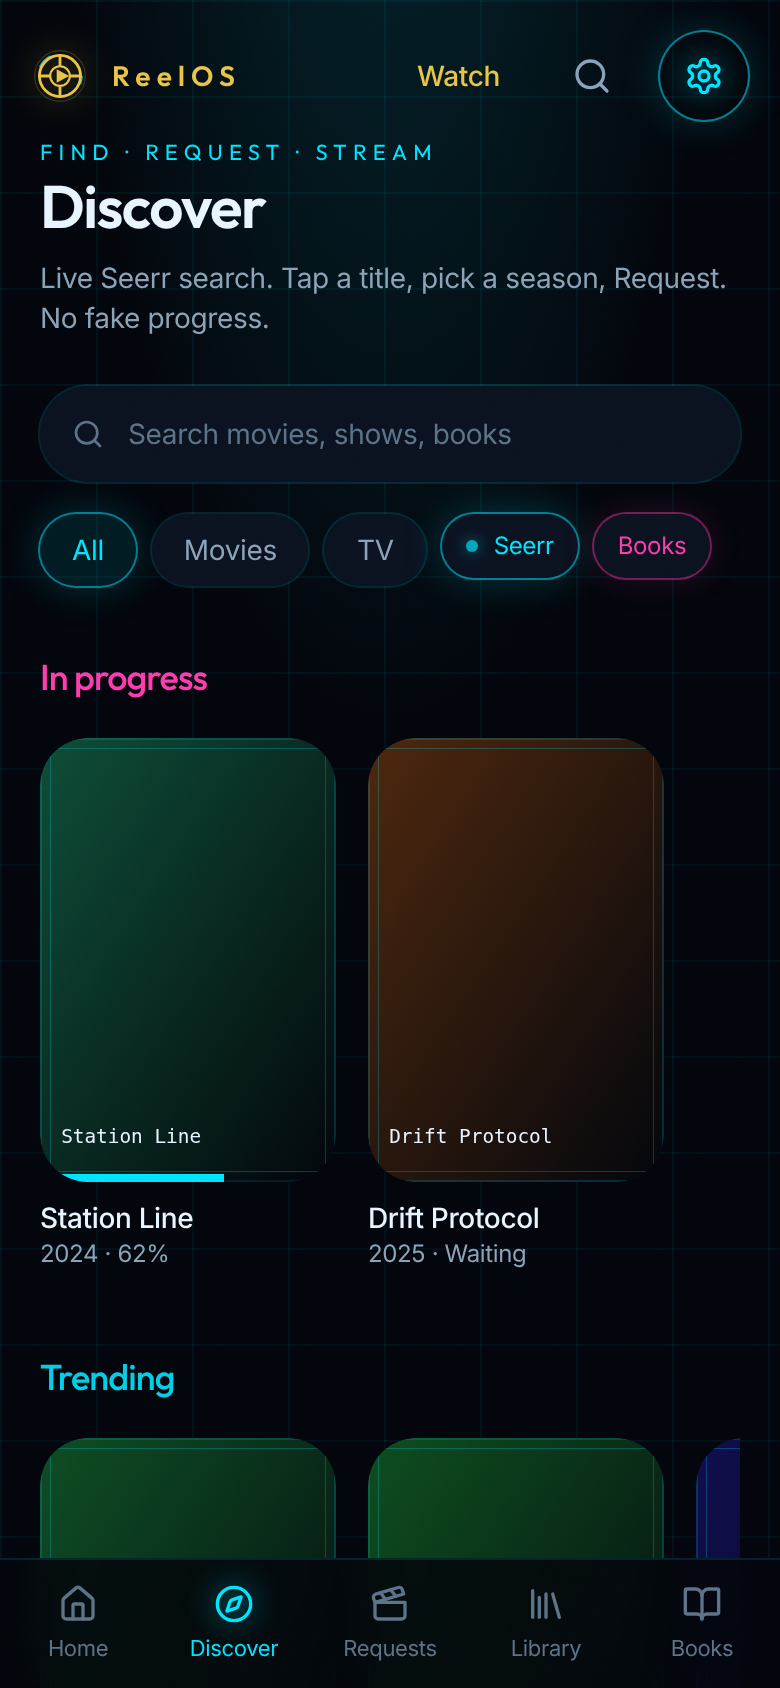
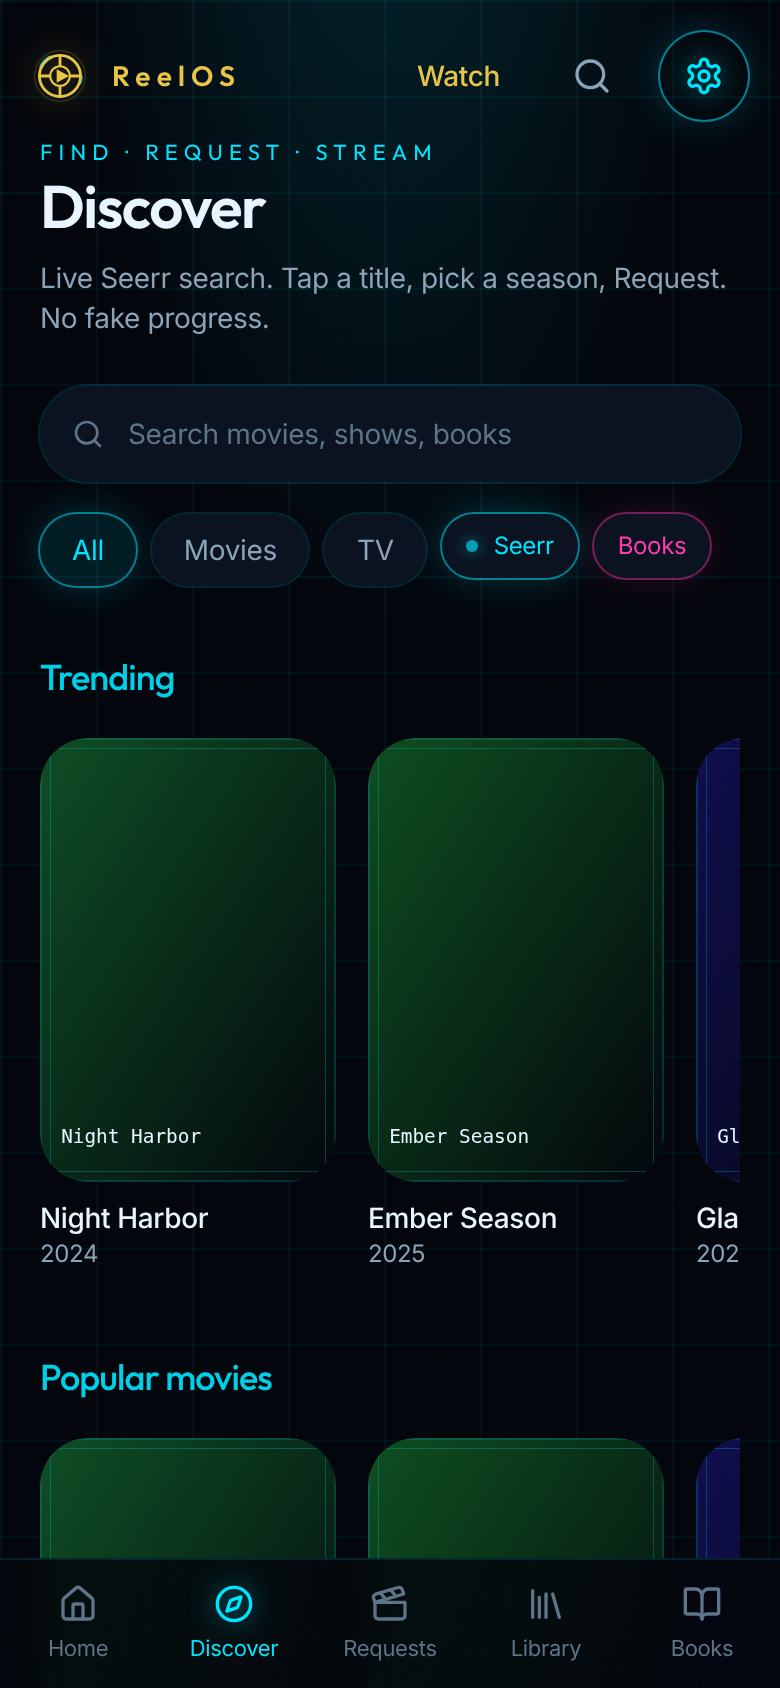
fix: keep Discover idle clean — In progress lives on Requests
Discover is trending/popular/search only. Active grabs/requests move to
the Requests tab (magenta In progress row). Home Continue / Your requests
unchanged. Hold merge.

diff --git a/src/components/discover-view.tsx b/src/components/discover-view.tsx
@@ -6,11 +6,8 @@ import { Chip, FilterChip } from "@/components/chip";
 import { Page, PageTitle } from "@/components/page";
 import { Row, TitleCard } from "@/components/title-card";
 import { rememberCatalogTitles } from "@/lib/catalog";
-import { getTitle } from "@/lib/catalog";
 import { installHonestRequest } from "@/lib/honest-request";
 import { useReelStore } from "@/lib/store";
-import { isInFlightRequest } from "@/lib/sync-requests";
-import { useSyncRequests } from "@/lib/use-sync-requests";
 import type { Title } from "@/lib/types";
 
 type KindFilter = "all" | "movie" | "tv";
@@ -41,9 +38,7 @@ export function DiscoverView() {
   const shelf = useReelStore((s) => s.shelf);
   const shelfError = useReelStore((s) => s.shelfError);
   const shelfReady = useReelStore((s) => s.shelfReady);
-  const requests = useReelStore((s) => s.requests);
   const navigate = useNavigate();
-  useSyncRequests();
 
   useEffect(() => {
     installHonestRequest();
@@ -152,17 +147,12 @@ export function DiscoverView() {
 
   const searching = q.trim().length >= 2;
   const typeaheadOpen = searching && (hits.length > 0 || bookHits.length > 0);
-  const inFlight = requests.filter(isInFlightRequest);
   const recentShelf = shelf.slice(0, 16);
   const trending = discover.trending ?? [];
   const movies = discover.movies ?? [];
   const tv = discover.tv ?? [];
   const idleHasRows =
-    inFlight.length > 0 ||
-    trending.length > 0 ||
-    movies.length > 0 ||
-    tv.length > 0 ||
-    recentShelf.length > 0;
+    trending.length > 0 || movies.length > 0 || tv.length > 0 || recentShelf.length > 0;
 
   return (
     <Page>
@@ -253,15 +243,6 @@ export function DiscoverView() {
         <Chip live>Seerr</Chip>
         <Chip magenta>Books</Chip>
       </div>
-
-      {inFlight.length > 0 ? (
-        <Row label="In progress" tone="magenta">
-          {inFlight.map((r) => {
-            const t = getTitle(r.titleId);
-            return t ? <TitleCard key={r.id} title={t} request={r} /> : null;
-          })}
-        </Row>
-      ) : null}
 
       {trending.length > 0 ? (
         <Row label="Trending">

diff --git a/src/components/requests-view.tsx b/src/components/requests-view.tsx
@@ -3,11 +3,13 @@ import { Link } from "@tanstack/react-router";
 import { getTitle } from "@/lib/catalog";
 import { viaLabel } from "@/lib/adapter";
 import { useReelStore } from "@/lib/store";
+import { isInFlightRequest } from "@/lib/sync-requests";
 import { useSyncRequests } from "@/lib/use-sync-requests";
 import type { RequestStatus } from "@/lib/types";
 import { formatWhen } from "@/lib/utils";
 import { FilterChip } from "@/components/chip";
 import { Page, PageTitle } from "@/components/page";
+import { Row, TitleCard } from "@/components/title-card";
 import { Button } from "@/components/ui/button";
 
 const FILTERS: { id: "all" | RequestStatus; label: string }[] = [
@@ -26,12 +28,21 @@ export function RequestsView() {
   useSyncRequests();
 
   const list = requests.filter((r) => (filter === "all" ? true : r.status === filter));
+  const inFlight = requests.filter(isInFlightRequest);
 
   return (
     <Page className="py-6 md:py-8">
       <PageTitle sub="Household asks. Status comes from Seerr / *arr — no fake percent.">
         Requests
       </PageTitle>
+      {inFlight.length > 0 ? (
+        <Row label="In progress" tone="magenta">
+          {inFlight.map((r) => {
+            const t = getTitle(r.titleId);
+            return t ? <TitleCard key={r.id} title={t} request={r} /> : null;
+          })}
+        </Row>
+      ) : null}
       <div className="mt-6 flex flex-wrap gap-2">
         {FILTERS.map((f) => (
           <FilterChip key={f.id} active={filter === f.id} onClick={() => setFilter(f.id)}>

diff --git a/STATUS.md b/STATUS.md
@@ -16,7 +16,7 @@ Rebased onto **1.2.50** `main` (PR #51). Stack overlay / FUSE rslave / importPen
 Idle Discover was a pretty empty room if Jellyfin had nothing. That fails this stamp.
 
 1. **Search** still hits live `GET /api/lookup?q=` (Seerr `/api/v1/search`). Typeahead is the primary hit list (no duplicate Results row). Kind filter `movie|tv` is passed through. Tap opens `/title/$id`. Request is the existing `/api/request` path (Seerr/*arr). No fake %. A small **Books** group in the same typeahead hops to `/books?q=` (legal catalogs only).
-2. **Idle rows** from `GET /api/discover`: Seerr `/discover/trending`, `/discover/movies`, `/discover/tv`, plus in-progress requests and recently added shelf. Honest error if Seerr has no key. Idle shelves stay visible while typing.
+2. **Idle rows** from `GET /api/discover`: Seerr `/discover/trending`, `/discover/movies`, `/discover/tv`, plus recently added shelf. No in-progress / transferring row — that lives on **Requests** only. Honest error if Seerr has no key. Idle shelves stay visible while typing.
 3. **TV seasons** on the title page stay one-season-per-tap (`Request Sxx`). Unchanged contract.
 
 ## Books (legal only)
@@ -32,7 +32,7 @@ Folded the useful bits of #40 (Kavita compose, wizard chip, Connect card) and #4
 
 Global tokens in `src/styles.css` (cyan / magenta / electric blue / neon-gold on `#03060c`). Page enter, card hover glow, live chips. `prefers-reduced-motion` kills motion. Contrast kept readable (cool white + `#8aa3b8` muted).
 
-Design dialect after polish: chrome select (FilterChip) = cyan glow; commit CTAs stay gold. Books uses `--shadow-magenta` (source chips, Kavita card, Library→Books hop, Discover Books group). Row labels: magenta **In progress**, gold **Continue**, cyan otherwise. Home after provision says “On the shelf”, not the install slogan. `.tron-grid` breathes via `grid-breathe` (reduced-motion off). Phone header Settings gear has title + cyan glow.
+Design dialect after polish: chrome select (FilterChip) = cyan glow; commit CTAs stay gold. Books uses `--shadow-magenta` (source chips, Kavita card, Library→Books hop, Discover Books group). Row labels: magenta **In progress** (Requests only), gold **Continue** (Home), cyan otherwise. Discover idle has no active-request chrome. Home after provision says “On the shelf”, not the install slogan. `.tron-grid` breathes via `grid-breathe` (reduced-motion off). Phone header Settings gear has title + cyan glow.
 
 ## Stack kept from 1.2.50
 

diff --git a/HAL.md b/HAL.md
@@ -9,7 +9,7 @@ Hal. **2026-09-09.** Named stamp **1.2.51** (Tron UI + Discover + legal Books). 
 3. Owner phone: Settings → Check → Apply.
 4. Proof:
    - Phone chrome is Tron-night (cyan/magenta/neon-gold on black). Home / Discover / Library / Requests / Settings / title share the system.
-   - Discover idle shows Seerr trending/popular (or an honest Seerr error) plus in-progress requests and recently added. Search hits `/api/lookup` in typeahead (no duplicate Results row); a Books group in the same bar hops to `/books?q=`. Request still season-by-season for TV.
+   - Discover idle shows Seerr trending/popular (or an honest Seerr error) plus recently added. Active grabs live on **Requests** only — not Discover. Search hits `/api/lookup` in typeahead (no duplicate Results row); a Books group in the same bar hops to `/books?q=`. Request still season-by-season for TV.
    - Books tab search returns real catalog rows; Add writes under `/srv/media/books`. Kavita on `:5000` / `/kavita`.
    - Stack from **1.2.50** stays: Home/Library lean `/api/library`. Finish does not wedge `:8080`. `/api/box` Jellyfin **green**. Cached TorBox grab imports when FUSE is readable (`retry import`). Host `ls /mnt/debrid` is not enough — *arr containers must also list (rslave / `reelos-mnt-rshared.service`). Search hop red is OK.
 
